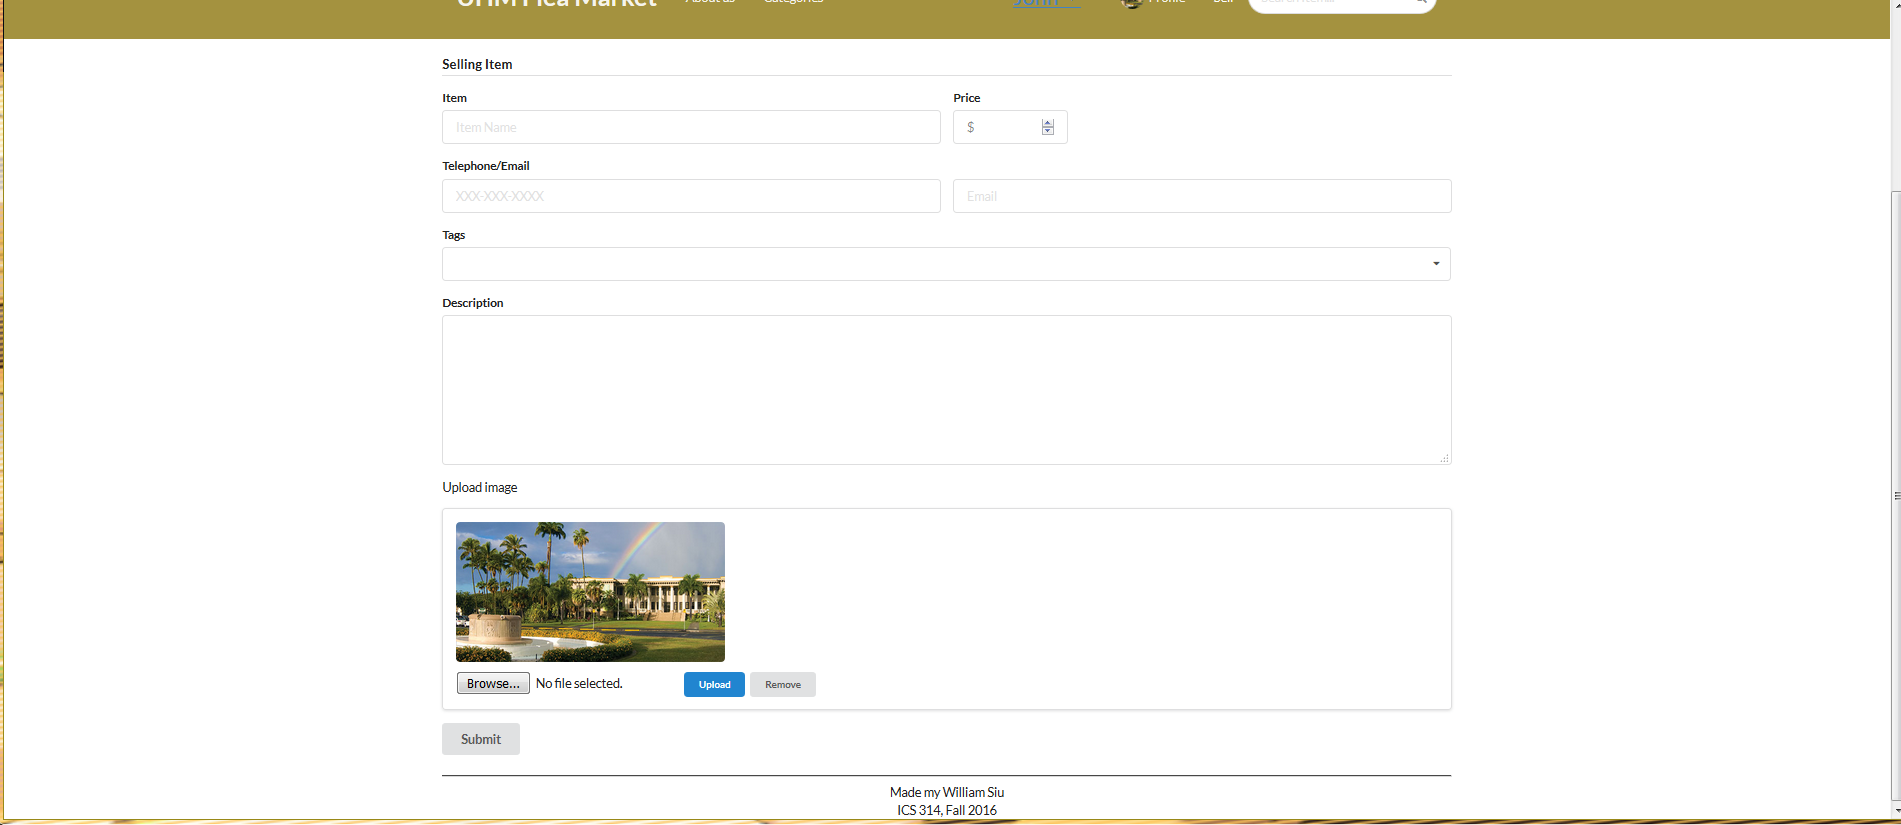
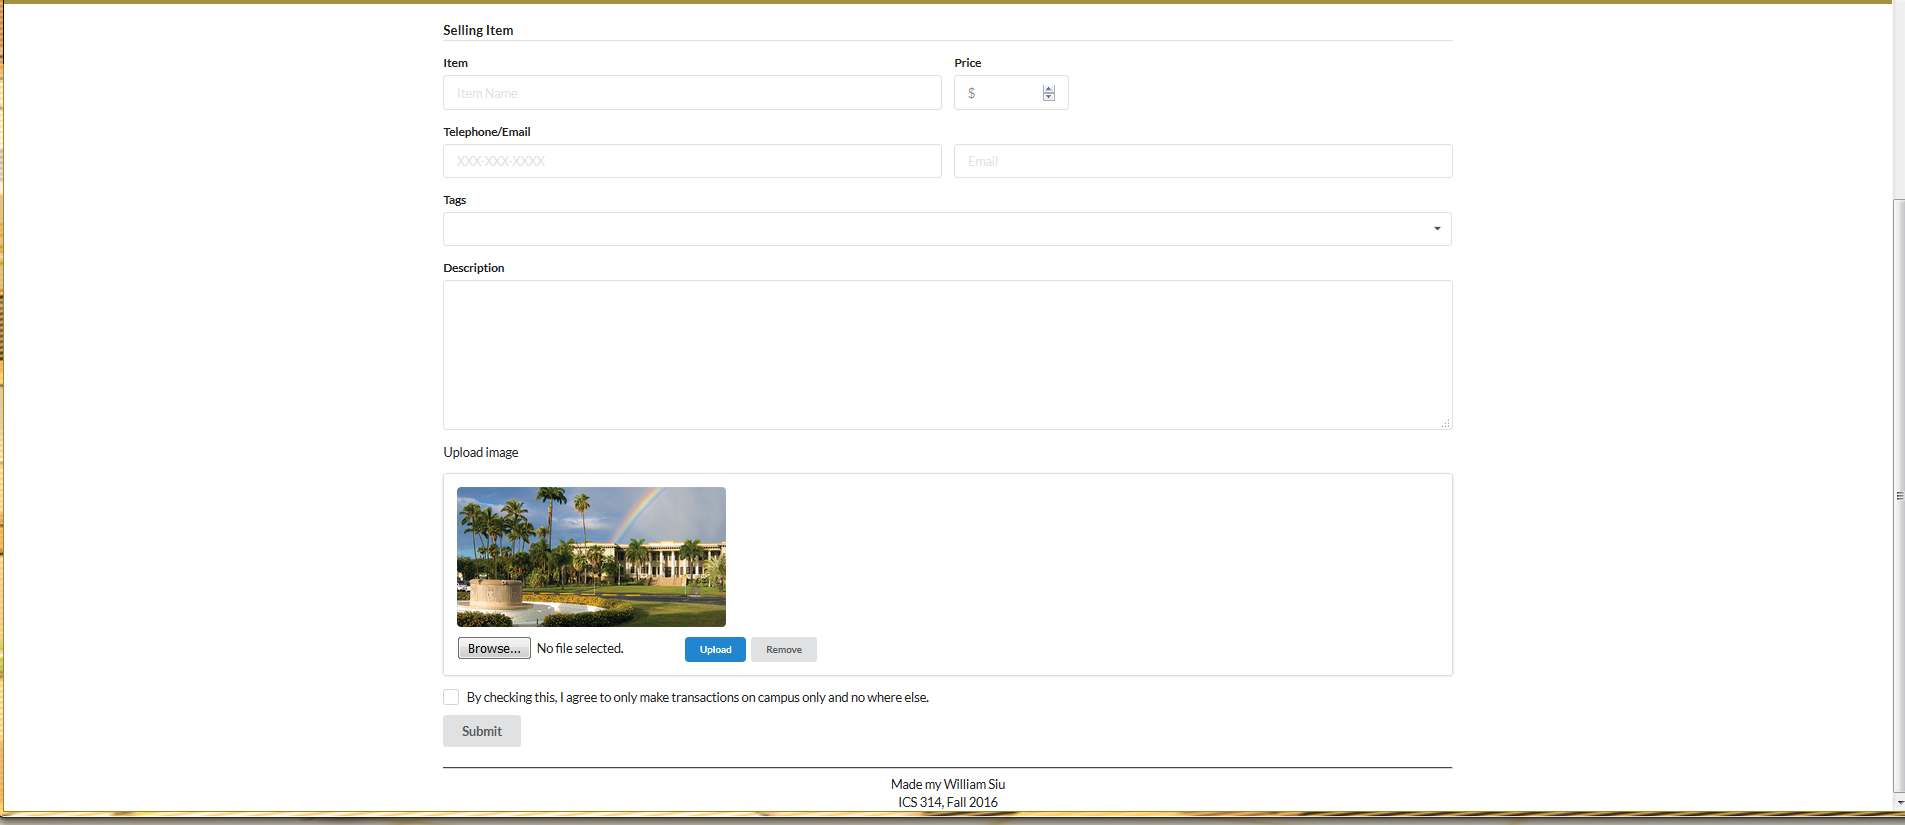
updating screenshots; list selling item page

diff --git a/app/imports/ui/pages/list-stuff-page.html b/app/imports/ui/pages/list-stuff-page.html
@@ -1,29 +1,32 @@
 <template name="List_Stuff_Page">
   {{#If_Logged_In}}
-    <div class="ui text container">
-      {{#if Template.subscriptionsReady}}
-        <table style="margin-top: 20px" class="ui celled table">
-          <thead>
-          <tr>
-            <th>Name</th>
-            <th>Quantity</th>
-            <th>Edit</th>
-          </tr>
-          </thead>
-
-          <tbody>
-          {{#each stuff in stuffList}}
-            <tr>
-              <td>{{stuff.name}}</td>
-              <td>{{stuff.quantity}}</td>
-              <td><a href="{{pathFor 'Edit_Stuff_Page' _id=stuff._id}}">Edit</a></td>
-            </tr>
-          {{/each}}
-          </tbody>
-        </table>
-      {{else}}
-        {{> Loading}}
-      {{/if}}
+  <div class="ui container" style="padding-top: 10px">Items selling<hr/></div>
+  <div class="ui link centered cards" style="padding-top: 30px">
+    <div class="card">
+      <div class="content">
+        <div class="right floated meta">23h ago</div>
+        <a class="image" href="#">
+          <img class="ui avatar image" src="/images/UHM-logo.jpg"> Random Person
+        </a>
+      </div>
+      <a href="#" class="small image">
+        <img src="/images/printer.png">
+      </a>
+      <div class="content">
+        <a class="header">Printer</a>
+        <div class="meta">
+          <a>$70</a>
+        </div>
+        <div class="description">
+          <a href="#" style="color:black">Graduating this Spring! Printer still in good condition. Extra inks and printing
+            paper included!</a>
+        </div>
+      </div>
+      <div class="content">
+        User Rating:
+        <div class="ui rating" data-rating="5"></div>
+      </div>
     </div>
+  </div>
   {{/If_Logged_In}}
 </template>

diff --git a/app/imports/ui/pages/sell-page.html b/app/imports/ui/pages/sell-page.html
@@ -72,7 +72,12 @@
         <a class="ui mini button">Remove</a>
       </div>
 
-      <button class="ui button" type="submit">Submit</button>
+      <div class="ui checkbox">
+        <input name="example" type="checkbox">
+        <label>By checking this, I agree to only make transactions on campus only and no where else.</label>
+      </div><br/>
+
+      <button class="ui button" type="submit" style="margin-top: 10px">Submit</button>
 
     </form>
   </div>

diff --git a/app/imports/ui/pages/list-stuff-page.js b/app/imports/ui/pages/list-stuff-page.js
@@ -10,3 +10,9 @@ Template.List_Stuff_Page.helpers({
     return Stuff.find();
   },
 });
+
+Template.List_Stuff_Page.onRendered(function () {
+  this.$('.ui.rating').rating({
+    maxRating: 5,
+  });
+});
